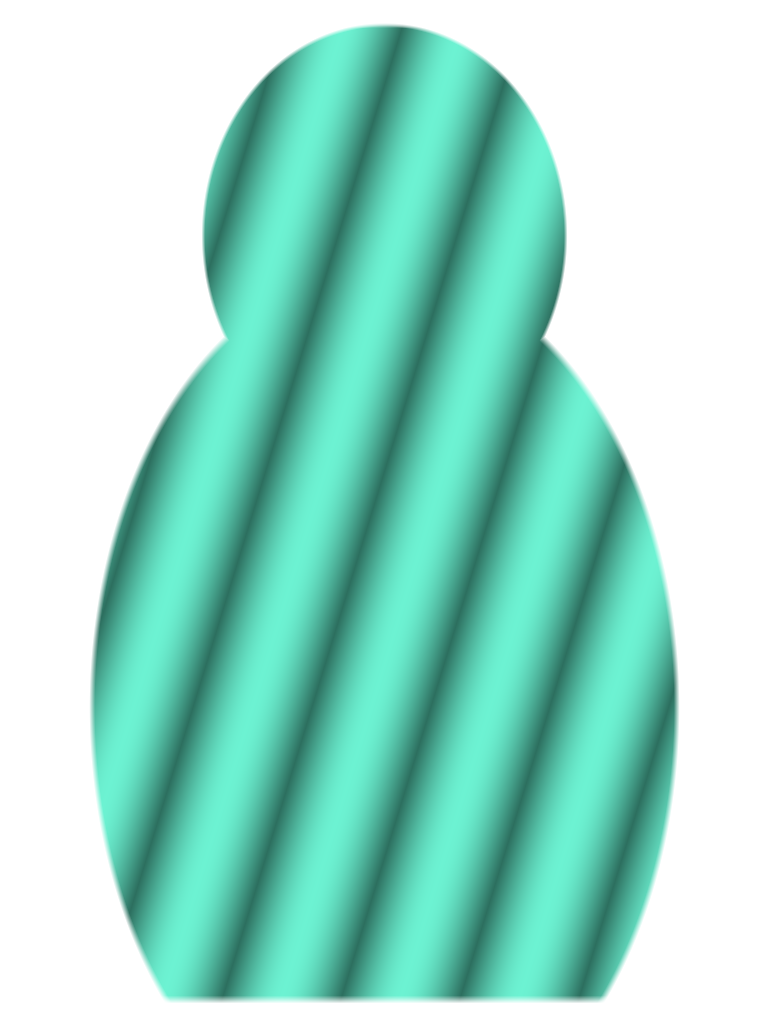
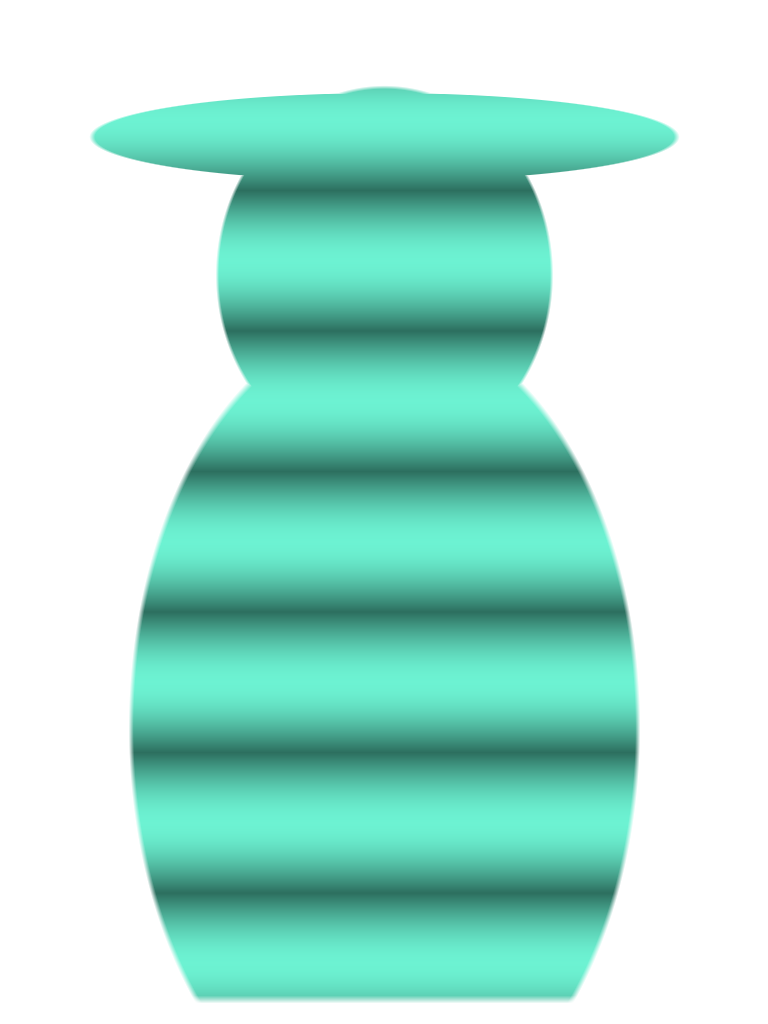
feat(shmup): 캐릭터 문법 적용 — 장비가 아니라 인물을 적는다
"동방 프로젝트의 캐릭터를 참고해" 에 대한 답. 가져올 수 있는 것은 그 작품의 인물이 아니라
이 장르가 캐릭터를 만드는 문법이고, 그건 복제가 아니다. 첫 프롬프트가 실패한 이유가
정확히 여기 있었다 — "잠수복, 바이저" 는 복장이지 캐릭터가 아니다.

문법 6개를 docs/ART_SPEC.md 에 명시했다:
  1 머리 위 표식이 실루엣을 만든다 — 얼굴이 작아도 실루엣만으로 구분된다
  2 한 인물 = 두 색. 세 색 이상이면 기억되지 않는다
  3 손에 든 것이 곧 그 인물의 기능이다
  4 둘은 성격이 반대다(정석·절제 / 과감·욕심). 상하가 아니다
  5 정면을 보고 눈을 맞춘다
  6 어두운 화면에서 인물이 가장 밝다 — 이 게임에선 그 빛이 생물발광이라 설정과도 맞는다

복제하지 않는 것은 특정 인물의 의장·이름·대사·문양이다. 그건 문법이 아니라 그 작품의
얼굴이고, 가져오면 "완전히 새로운 IP" 가 깨져 배포를 못 한다. 프롬프트에도 그렇게 적었고
"생성물이 기존 캐릭터를 닮아 보이면 다시 뽑는다" 를 넣었다.

적용:
  나린  넓게 퍼진 테 · 민트+옅은 금 · 가로 줄무늬 · "다 줍는다"
  해무  곧게 선 관   · 심청+흰빛   · 세로 줄무늬 · "한 점만 본다"
무늬 방향이 곧 그 사람의 사격 폭이다(넓다/한 줄). 선택 화면도 인물 두 색을 쓴다.

프롬프트 4개를 문법대로 다시 썼다. 자리표시자도 같은 문법으로 다시 구웠다 —
여전히 얼굴은 없지만 두 사람이 안 섞인다. 그게 자리표시자가 할 수 있는 전부다.

전 스위트 통과: 흐름 0 · 불변식 0 · 초상화 규격 위반 0.

diff --git a/apps/shmup/docs/ART_SPEC.md b/apps/shmup/docs/ART_SPEC.md
@@ -22,6 +22,40 @@
 - 인물이 **화면 안쪽(가운데)을 향하게**. 정면도 괜찮다.
 - 가장자리에서 **20px 이상 띄운다**(모바일 텍스처 압축이 가장자리를 물어뜯는다).
 
+## 이 장르가 캐릭터를 만드는 문법 (동방 프로젝트 참고)
+
+첫 판 프롬프트가 실패한 이유는 **장비만 적었기 때문**이다 — "잠수복, 바이저" 는 복장이지
+캐릭터가 아니다. 이 장르가 캐릭터를 캐릭터로 만드는 장치는 따로 있고, 그건 복제가 아니라
+문법이라 그대로 쓸 수 있다.
+
+1. **머리 위 표식이 실루엣을 만든다.** 모자·리본·뿔·관 — 이름을 몰라도 실루엣만으로 구분된다.
+   얼굴이 작게 나와도 머리 위가 다르면 두 사람이 섞이지 않는다.
+2. **한 인물 = 두 색.** 세 색 이상이면 기억되지 않는다. 색 한 쌍이 곧 이름이다.
+3. **손에 든 것이 곧 그 인물의 기능이다.** 무엇을 들었는지가 그 사람이 무엇을 하는지를 말한다.
+   나린은 넓게 줍고 해무는 좁게 뚫는다 — 그게 손에 보여야 한다.
+4. **둘은 성격이 반대다.** 한쪽이 정석·절제라면 다른 쪽은 과감·욕심이다.
+   같은 세계의 두 태도이지 상하가 아니다.
+5. **정면을 보고 눈을 맞춘다.** 표정이 분명하다. 소극적인 포즈는 이 장르의 초상화가 아니다.
+6. **어두운 화면에서 인물이 가장 밝다.** 탄막 배경 위에 얹히므로 인물 자체가 광원처럼 보여야 한다.
+   이 게임에서는 그 빛이 생물발광이라 설정과도 맞는다.
+
+**복제하지 않는 것:** 특정 인물의 의장(무녀복·마녀모자·특정 리본 등)·이름·대사·문양.
+그건 문법이 아니라 그 작품의 얼굴이고, 가져오면 이 프로젝트의 출발 조건
+("완전히 새로운 IP")이 깨져 배포를 못 한다. 위 6개는 장르 공통 문법이라 안전하다.
+
+## 두 조종사 — 반대되는 한 쌍
+
+| | 나린 | 해무 |
+|---|---|---|
+| 태도 | 과감·욕심. 넓게 훑어 다 줍는다 | 정석·절제. 한 점만 본다 |
+| 머리 위 표식 | 넓게 퍼진 **빛 그물 후드** — 테가 넓다 | 곧게 선 **단일 등지느러미 관** — 세로로 높다 |
+| 두 색 | 민트(#5AE6D9) + 옅은 금 | 심청(#2A4A8C) + 흰빛 |
+| 손에 든 것 | 빛 실로 짠 **채집망**(넓다) | 한 줄짜리 **침 창**(좁다) |
+| 발광 무늬 | 어깨·깃을 가로지르는 **가로 줄** | 몸을 따라 내려오는 **세로 줄** |
+| 표정 | 웃는 눈, 자신만만 | 다문 입, 흔들리지 않는 눈 |
+
+가로/세로 줄무늬가 사격 폭(넓다/좁다)과 같은 방향이다 — **인물의 무늬가 곧 그 사람의 탄이다.**
+
 ## 세계관 — 프롬프트에 반드시 들어가야 하는 것
 
 심해. 빛이 닿지 않는 깊이. 모든 빛은 **생물발광**이다.
@@ -34,44 +68,55 @@
 
 ## 프롬프트 (그대로 붙여 쓸 수 있게)
 
-공통 접미: `anime style character art, bust portrait, facing viewer, transparent background,
-768x1024, no text, no watermark, clean edges, bioluminescent deep sea theme, dark teal palette`
+공통 접미:
+`anime character art, bust portrait, facing viewer, direct eye contact, confident expression,
+strong silhouette, transparent background, 768x1024, no text, no watermark, no logo,
+clean edges, character is the brightest element, dark teal background tone #081014`
 
-### p0_narin — 나린
+### p0_narin — 나린 (넓게 보고 멀리 줍는다)
 ```
-Anime style bust portrait of a young deep-sea scout pilot named Narin.
-Wide-shouldered light diving suit, open-face visor pushed up on the forehead,
-short pale-mint hair, calm observant expression. Broad horizontal bioluminescent
-stripes glowing cyan across the suit collar and shoulders — she reads the current
-by watching wide. Cool teal and cyan palette (#5AE6D9) against deep navy (#081014).
-Soft internal glow, no external light source. Transparent background.
-```
-
-### p1_haemu — 해무
-```
-Anime style bust portrait of a deep-diving pilot named Haemu.
-Narrow sealed diving suit with a closed visor, breathing line along the jaw,
-long dark hair tied back, focused narrow gaze. Thin vertical bioluminescent lines
-glowing pale blue run down the suit — he/she reads the current by looking deep and narrow.
-Colder blue palette than Narin. Deep navy background tone (#081014), transparent background.
+Anime character art, bust portrait of Narin, a bold young deep-sea scout.
+Signature headwear: a WIDE translucent hood that fans out like a light-catching net,
+broad brim silhouette — instantly readable from her outline alone.
+Two-color identity: bright mint (#5AE6D9) and pale gold, nothing else.
+She holds a wide gathering net woven from glowing threads, spread open in one hand.
+HORIZONTAL bioluminescent stripes run across her collar and shoulders.
+Grinning eyes, cocky and greedy for light. She is the brightest thing in frame,
+glowing from within like a deep-sea organism. Transparent background.
 ```
 
-### p2_tersa — 조류 방추체 테르사
+### p1_haemu — 해무 (좁게 보고 깊게 뚫는다)
 ```
-Bioluminescent deep-sea creature, not human. A vertical spindle-shaped body about
-three times taller than wide, smooth and tapered at both ends, drifting upright.
-Amber and warm-gold glowing stripes spiral around the body, and the spiral direction
-is visible — the water turns where it turns. Faint rotating current visible around it.
-Dark, moody, no face. Transparent background.
+Anime character art, bust portrait of Haemu, a disciplined deep-diving pilot.
+Signature headwear: a TALL narrow dorsal crest rising straight up from the helm,
+a single vertical fin — a thin sharp silhouette, the opposite of Narin's wide brim.
+Two-color identity: deep navy (#2A4A8C) and white light, nothing else.
+Holds a single slender needle-lance upright, one line, no spread.
+VERTICAL bioluminescent lines run down the suit from shoulder to waist.
+Closed mouth, unwavering narrow gaze, utterly still. Glowing from within.
+Transparent background.
 ```
 
-### p3_corona — 화륜종 코로나
+### p2_tersa — 조류 방추체 테르사 (중간보스 · 물을 돌린다)
+```
+Bioluminescent deep-sea creature, not human. A vertical spindle body, three times
+taller than wide, tapered at both ends, drifting upright in black water.
+Amber and warm gold light spirals around it, and the spiral direction is clearly
+readable — the water turns where it turns. Faint rotating current lines around the body.
+No face, no limbs. Ominous, patient. Brightest element in frame. Transparent background.
+```
+
+### p3_corona — 화륜종 코로나 (최종보스 · 조류의 출처)
 ```
 Bioluminescent deep-sea creature, not human. A dark sphere that contains light:
 an almost-black core silhouette with three concentric glowing rings rotating around it,
-like a bell holding a flame. Warm vermilion and amber light leaking between the rings.
-Vast, still, older than the current. No face, no limbs. Transparent background.
+like a bell holding a flame inside. Warm vermilion and amber light leaking between
+the rings. Vast, still, older than the current itself. No face, no limbs.
+Brightest element in frame. Transparent background.
 ```
+
+**어느 프롬프트에도 특정 작품의 인물·의장·이름을 넣지 않는다.** 생성물이 기존 캐릭터를
+닮아 보이면 다시 뽑는다 — 닮은 그림 한 장이 이 프로젝트 전체의 배포를 막는다.
 
 ## 받은 뒤
 

diff --git a/apps/shmup/CLAUDE.md b/apps/shmup/CLAUDE.md
@@ -438,6 +438,32 @@ verify 가 원인(제외 영역 / 도달 소진 / 짧은 드래그 / 기타)을 
 **요구 이동량 지표는 신뢰하지 않는다** — 1D 스캔으로 정의에 4번 실패했다.
 근거는 `tools/corridor.gd` 주석. 진짜 요구 이동량은 실기 RunLog 의 플레이어 궤적으로 잰다.
 
+## 캐릭터 문법 — "장비를 적는 것" 과 "캐릭터를 적는 것" 은 다르다
+첫 프롬프트가 실패한 이유는 **장비만 적었기 때문**이다. "잠수복, 바이저" 는 복장이지
+캐릭터가 아니다. 사용자가 "동방 프로젝트의 캐릭터를 참고해" 라고 했을 때 가져올 수 있는 것은
+그 작품의 인물이 아니라 **이 장르가 캐릭터를 만드는 문법**이고, 그건 복제가 아니다.
+
+1. 머리 위 표식이 실루엣을 만든다 — 얼굴이 작아도 실루엣만으로 구분된다
+2. 한 인물 = 두 색. 세 색 이상이면 기억되지 않는다
+3. 손에 든 것이 곧 그 인물의 기능이다
+4. 둘은 성격이 반대다(정석·절제 / 과감·욕심). 상하가 아니다
+5. 정면을 보고 눈을 맞춘다. 표정이 분명하다
+6. 어두운 화면에서 인물이 가장 밝다 — 이 게임에서는 그 빛이 생물발광이라 설정과도 맞는다
+
+복제하지 않는 것: 특정 인물의 의장·이름·대사·문양. 그건 문법이 아니라 그 작품의 얼굴이고,
+가져오면 "완전히 새로운 IP" 가 깨져 배포를 못 한다. 위 6개는 장르 공통이라 안전하다.
+
+적용 결과 — **무늬 방향이 곧 그 사람의 탄이다**:
+| | 나린 | 해무 |
+|---|---|---|
+| 머리 위 | 넓게 퍼진 테 | 곧게 선 관 |
+| 두 색 | 민트 + 옅은 금 | 심청 + 흰빛 |
+| 무늬 | **가로** 줄 (사격이 넓다) | **세로** 줄 (사격이 한 줄이다) |
+| 태도 | 다 줍는다 | 한 점만 본다 |
+
+자리표시자도 이 문법으로 다시 구웠다. 여전히 얼굴은 없지만 **두 사람이 안 섞인다** —
+그게 자리표시자가 할 수 있는 전부이고, 그 이상은 그림의 일이다.
+
 ## 초상화 — 받아서 덮으면 끝나는 형태로 만들어 뒀다
 사용자 판정: **"그림이 캐릭터로 안 보인다."** 맞다 — 내가 구운 자리표시자는 눈사람 실루엣에
 줄무늬를 채운 도형이었고, 얼굴도 장비도 없었다. 진짜 그림은 AI 생성으로 받기로 했다.
